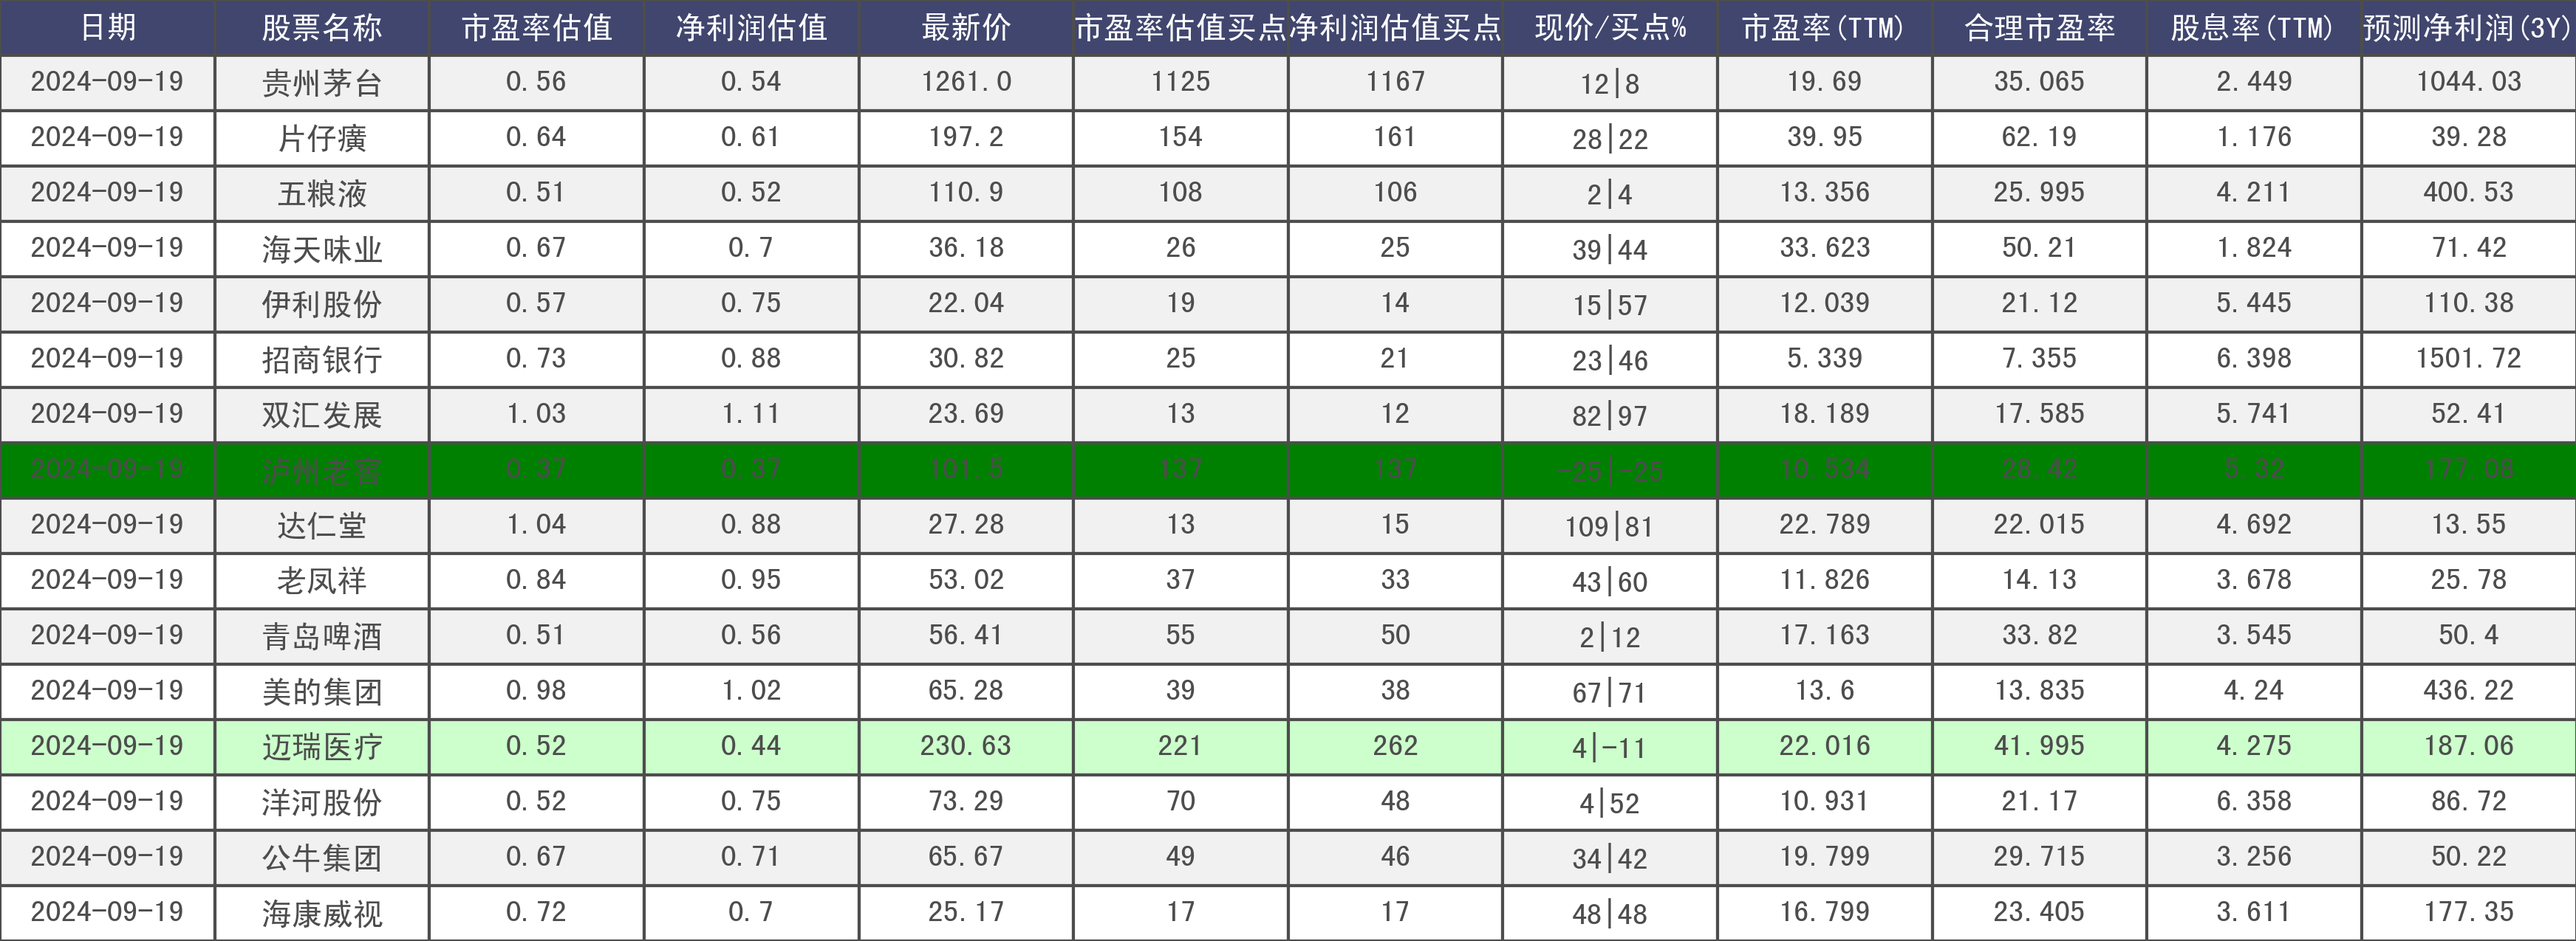
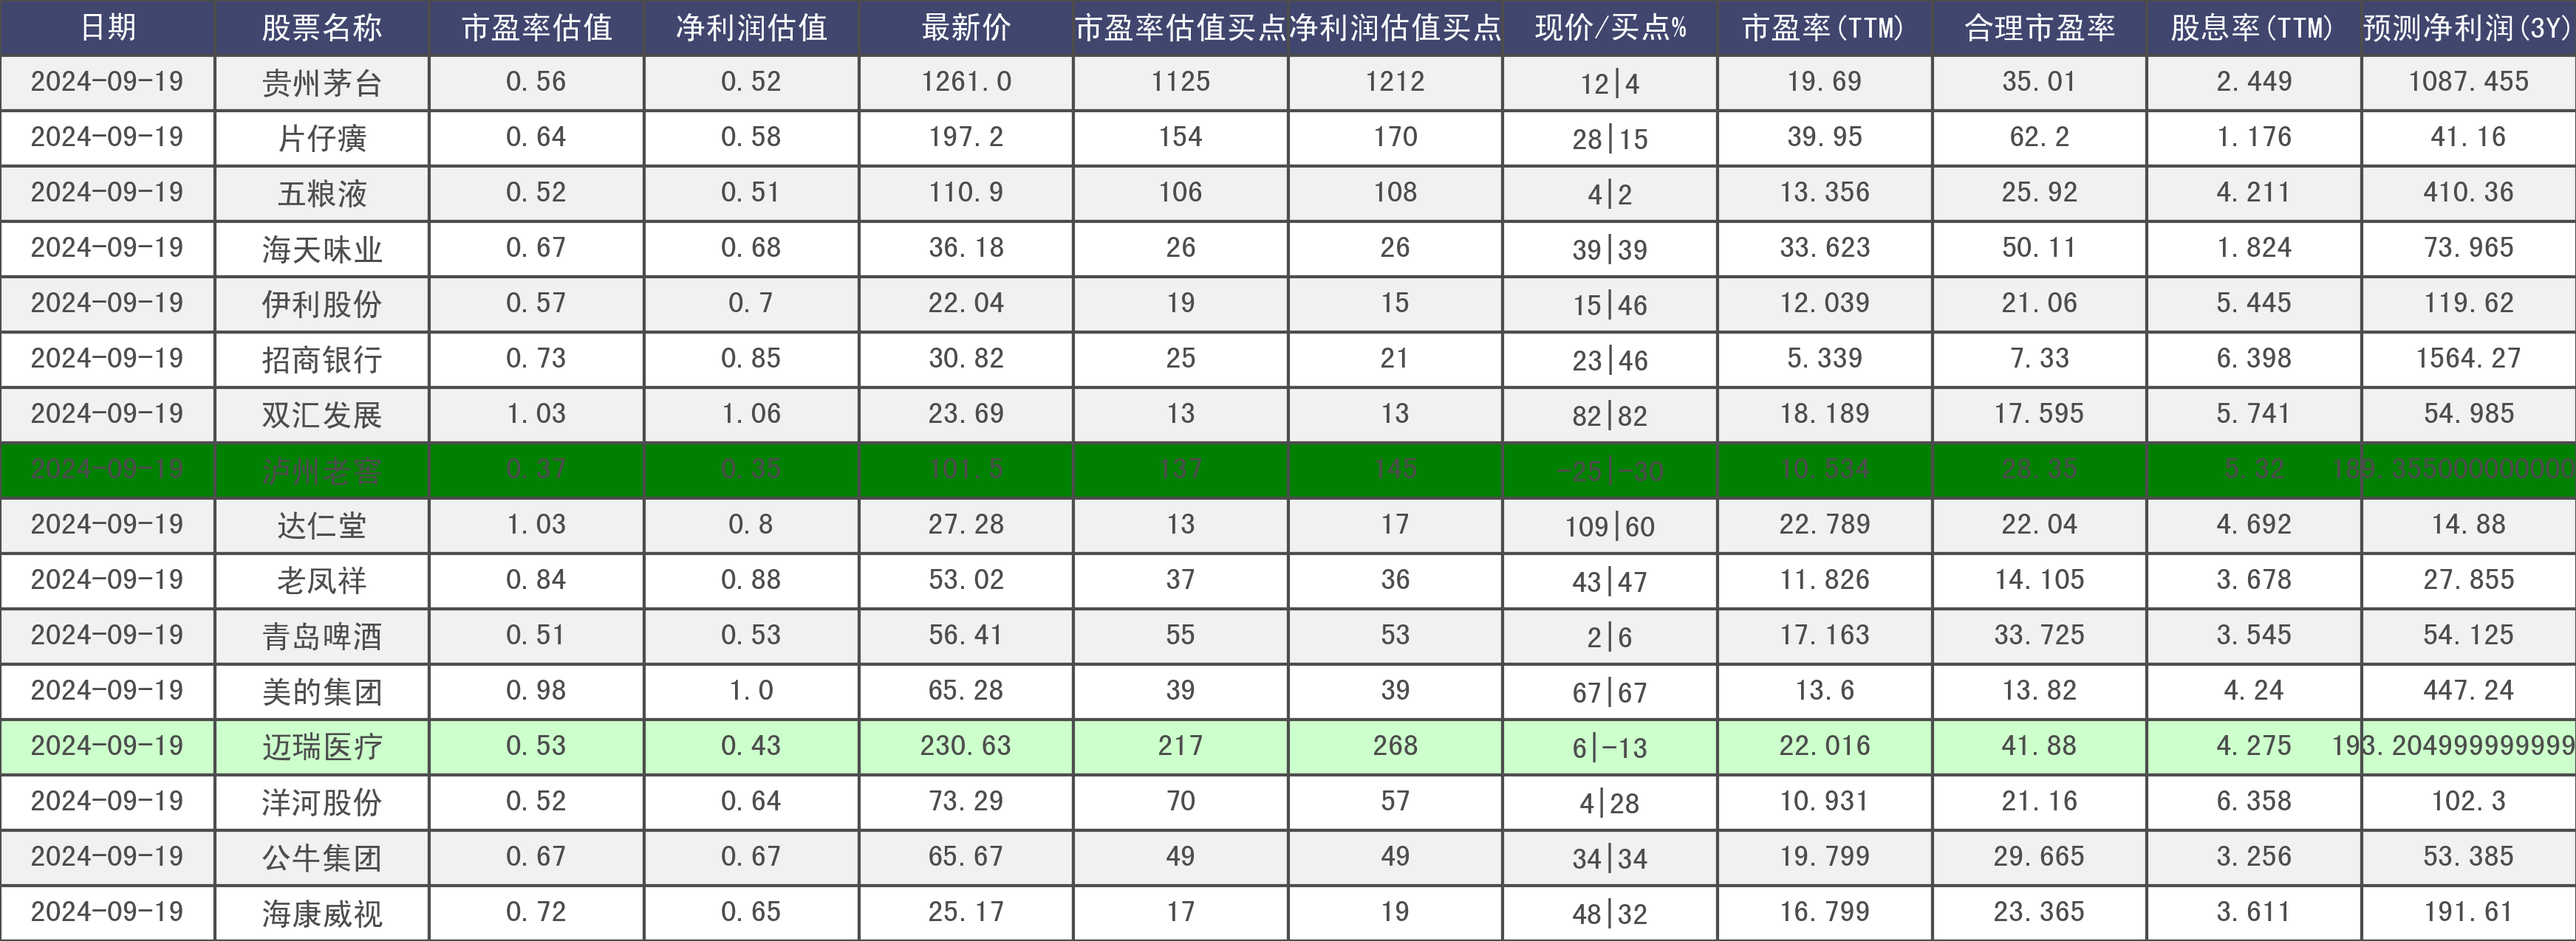
action:2024-09-19T16:47:25

diff --git a/index.html b/index.html
@@ -29,229 +29,229 @@
       <td>2024-09-19</td>
       <td>贵州茅台</td>
       <td>0.56</td>
-      <td>0.54</td>
+      <td>0.52</td>
       <td>1261.00</td>
       <td>1125</td>
-      <td>1167</td>
-      <td>12|8</td>
+      <td>1212</td>
+      <td>12|4</td>
       <td>19.690</td>
-      <td>35.065</td>
+      <td>35.010</td>
       <td>2.449</td>
-      <td>1044.03</td>
+      <td>1087.455</td>
     </tr>
     <tr>
       <td>2024-09-19</td>
       <td>片仔癀</td>
       <td>0.64</td>
-      <td>0.61</td>
+      <td>0.58</td>
       <td>197.20</td>
       <td>154</td>
-      <td>161</td>
-      <td>28|22</td>
+      <td>170</td>
+      <td>28|15</td>
       <td>39.950</td>
-      <td>62.190</td>
+      <td>62.200</td>
       <td>1.176</td>
-      <td>39.28</td>
+      <td>41.160</td>
     </tr>
     <tr>
       <td>2024-09-19</td>
       <td>五粮液</td>
-      <td>0.51</td>
       <td>0.52</td>
+      <td>0.51</td>
       <td>110.90</td>
-      <td>108</td>
       <td>106</td>
-      <td>2|4</td>
+      <td>108</td>
+      <td>4|2</td>
       <td>13.356</td>
-      <td>25.995</td>
+      <td>25.920</td>
       <td>4.211</td>
-      <td>400.53</td>
+      <td>410.360</td>
     </tr>
     <tr>
       <td>2024-09-19</td>
       <td>海天味业</td>
       <td>0.67</td>
-      <td>0.70</td>
+      <td>0.68</td>
       <td>36.18</td>
       <td>26</td>
-      <td>25</td>
-      <td>39|44</td>
+      <td>26</td>
+      <td>39|39</td>
       <td>33.623</td>
-      <td>50.210</td>
+      <td>50.110</td>
       <td>1.824</td>
-      <td>71.42</td>
+      <td>73.965</td>
     </tr>
     <tr>
       <td>2024-09-19</td>
       <td>伊利股份</td>
       <td>0.57</td>
-      <td>0.75</td>
+      <td>0.70</td>
       <td>22.04</td>
       <td>19</td>
-      <td>14</td>
-      <td>15|57</td>
+      <td>15</td>
+      <td>15|46</td>
       <td>12.039</td>
-      <td>21.120</td>
+      <td>21.060</td>
       <td>5.445</td>
-      <td>110.38</td>
+      <td>119.620</td>
     </tr>
     <tr>
       <td>2024-09-19</td>
       <td>招商银行</td>
       <td>0.73</td>
-      <td>0.88</td>
+      <td>0.85</td>
       <td>30.82</td>
       <td>25</td>
       <td>21</td>
       <td>23|46</td>
       <td>5.339</td>
-      <td>7.355</td>
+      <td>7.330</td>
       <td>6.398</td>
-      <td>1501.72</td>
+      <td>1564.270</td>
     </tr>
     <tr>
       <td>2024-09-19</td>
       <td>双汇发展</td>
       <td>1.03</td>
-      <td>1.11</td>
+      <td>1.06</td>
       <td>23.69</td>
       <td>13</td>
-      <td>12</td>
-      <td>82|97</td>
+      <td>13</td>
+      <td>82|82</td>
       <td>18.189</td>
-      <td>17.585</td>
+      <td>17.595</td>
       <td>5.741</td>
-      <td>52.41</td>
+      <td>54.985</td>
     </tr>
     <tr>
       <td>2024-09-19</td>
       <td>泸州老窖</td>
       <td>0.37</td>
-      <td>0.37</td>
+      <td>0.35</td>
       <td>101.50</td>
       <td>137</td>
-      <td>137</td>
-      <td>-25|-25</td>
+      <td>145</td>
+      <td>-25|-30</td>
       <td>10.534</td>
-      <td>28.420</td>
+      <td>28.350</td>
       <td>5.320</td>
-      <td>177.08</td>
+      <td>189.355</td>
     </tr>
     <tr>
       <td>2024-09-19</td>
       <td>达仁堂</td>
-      <td>1.04</td>
-      <td>0.88</td>
+      <td>1.03</td>
+      <td>0.80</td>
       <td>27.28</td>
       <td>13</td>
-      <td>15</td>
-      <td>109|81</td>
+      <td>17</td>
+      <td>109|60</td>
       <td>22.789</td>
-      <td>22.015</td>
+      <td>22.040</td>
       <td>4.692</td>
-      <td>13.55</td>
+      <td>14.880</td>
     </tr>
     <tr>
       <td>2024-09-19</td>
       <td>老凤祥</td>
       <td>0.84</td>
-      <td>0.95</td>
+      <td>0.88</td>
       <td>53.02</td>
       <td>37</td>
-      <td>33</td>
-      <td>43|60</td>
+      <td>36</td>
+      <td>43|47</td>
       <td>11.826</td>
-      <td>14.130</td>
+      <td>14.105</td>
       <td>3.678</td>
-      <td>25.78</td>
+      <td>27.855</td>
     </tr>
     <tr>
       <td>2024-09-19</td>
       <td>青岛啤酒</td>
       <td>0.51</td>
-      <td>0.56</td>
+      <td>0.53</td>
       <td>56.41</td>
       <td>55</td>
-      <td>50</td>
-      <td>2|12</td>
+      <td>53</td>
+      <td>2|6</td>
       <td>17.163</td>
-      <td>33.820</td>
+      <td>33.725</td>
       <td>3.545</td>
-      <td>50.40</td>
+      <td>54.125</td>
     </tr>
     <tr>
       <td>2024-09-19</td>
       <td>美的集团</td>
       <td>0.98</td>
-      <td>1.02</td>
+      <td>1.00</td>
       <td>65.28</td>
       <td>39</td>
-      <td>38</td>
-      <td>67|71</td>
+      <td>39</td>
+      <td>67|67</td>
       <td>13.600</td>
-      <td>13.835</td>
+      <td>13.820</td>
       <td>4.240</td>
-      <td>436.22</td>
+      <td>447.240</td>
     </tr>
     <tr>
       <td>2024-09-19</td>
       <td>迈瑞医疗</td>
-      <td>0.52</td>
-      <td>0.44</td>
+      <td>0.53</td>
+      <td>0.43</td>
       <td>230.63</td>
-      <td>221</td>
-      <td>262</td>
-      <td>4|-11</td>
+      <td>217</td>
+      <td>268</td>
+      <td>6|-13</td>
       <td>22.016</td>
-      <td>41.995</td>
+      <td>41.880</td>
       <td>4.275</td>
-      <td>187.06</td>
+      <td>193.205</td>
     </tr>
     <tr>
       <td>2024-09-19</td>
       <td>洋河股份</td>
       <td>0.52</td>
-      <td>0.75</td>
+      <td>0.64</td>
       <td>73.29</td>
       <td>70</td>
-      <td>48</td>
-      <td>4|52</td>
+      <td>57</td>
+      <td>4|28</td>
       <td>10.931</td>
-      <td>21.170</td>
+      <td>21.160</td>
       <td>6.358</td>
-      <td>86.72</td>
+      <td>102.300</td>
     </tr>
     <tr>
       <td>2024-09-19</td>
       <td>公牛集团</td>
       <td>0.67</td>
-      <td>0.71</td>
+      <td>0.67</td>
       <td>65.67</td>
       <td>49</td>
-      <td>46</td>
-      <td>34|42</td>
+      <td>49</td>
+      <td>34|34</td>
       <td>19.799</td>
-      <td>29.715</td>
+      <td>29.665</td>
       <td>3.256</td>
-      <td>50.22</td>
+      <td>53.385</td>
     </tr>
     <tr>
       <td>2024-09-19</td>
       <td>海康威视</td>
       <td>0.72</td>
-      <td>0.70</td>
+      <td>0.65</td>
       <td>25.17</td>
       <td>17</td>
-      <td>17</td>
-      <td>48|48</td>
+      <td>19</td>
+      <td>48|32</td>
       <td>16.799</td>
-      <td>23.405</td>
+      <td>23.365</td>
       <td>3.611</td>
-      <td>177.35</td>
+      <td>191.610</td>
     </tr>
   </tbody>
 </table>
-    <p>date(w):2024-09-12   date(d):2024-09-19</p>
+    <p>date(w):2024-09-19   date(d):2024-09-19</p>
     <script>
         document.addEventListener('DOMContentLoaded', function() {
             const rows = document.querySelectorAll('.stock-table tbody tr');
